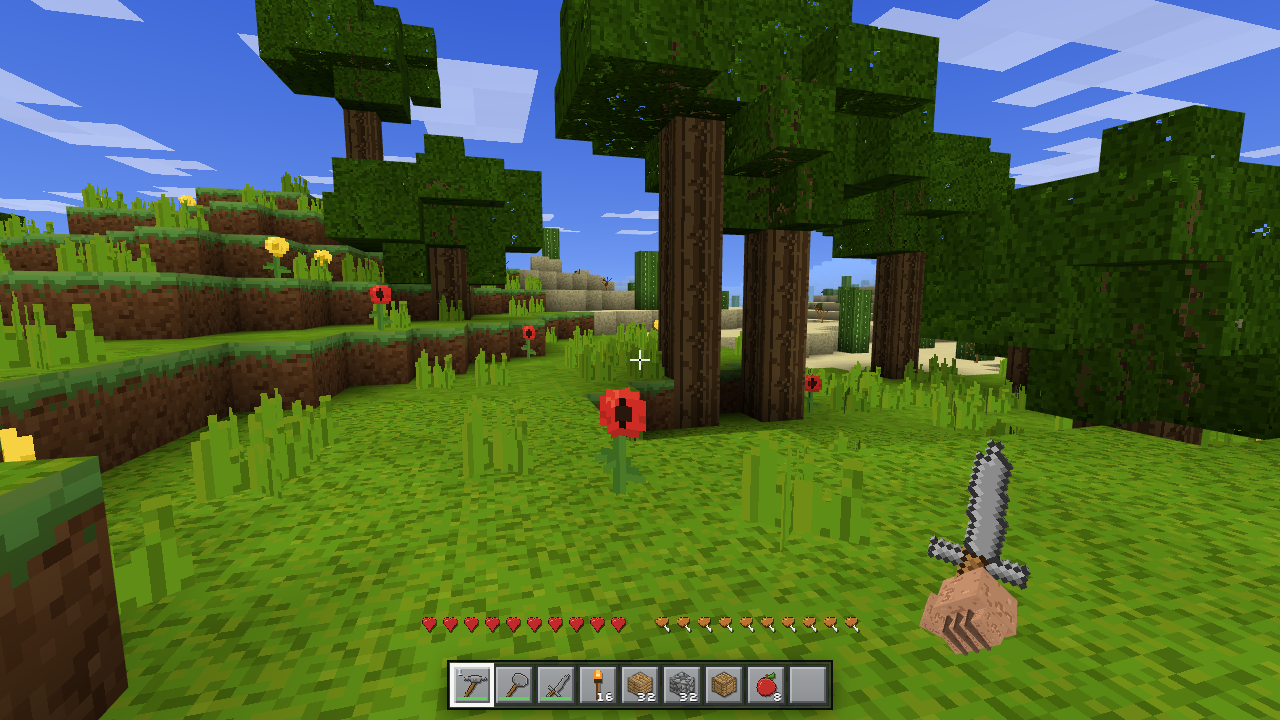
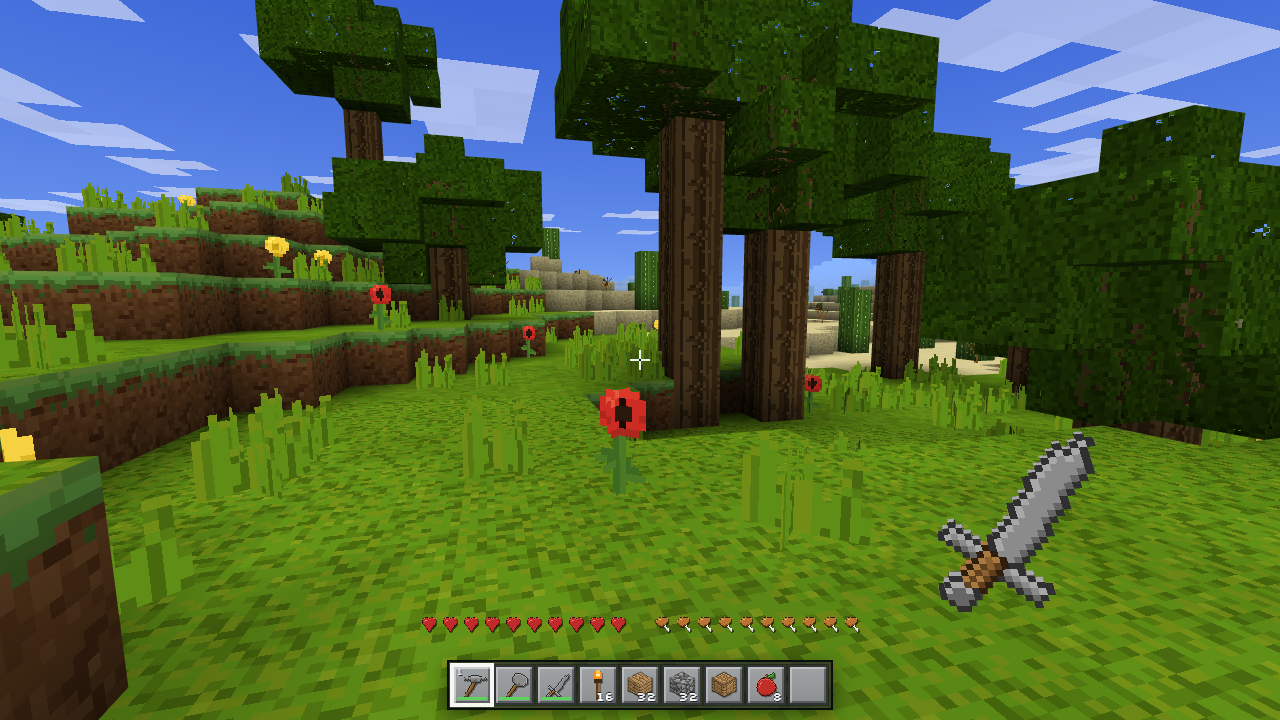
fix: quadruped leg/head rigs; hide arm behind held items to match vanilla first-person view

Changed region(s): [[0.7188, 0.6111, 0.875, 0.9167]]

diff --git a/src/entities/models.ts b/src/entities/models.ts
@@ -316,16 +316,16 @@ const PIG_MODEL: MobModelDef = {
   eyeHeight: 0.75,
   walkCycle: 1.2,
   parts: [
-    headPart('head', 'pig_head', [0, 0.55, 0.45], [0, 0.15, 0.1], [0.5, 0.5, 0.5]),
+    headPart('head', 'pig_head', [0, 0.55, 0.52], [0, 0.06, 0.12], [0.5, 0.5, 0.5]),
     {
       name: 'body',
       texture: 'pig_body',
       pivot: [0, 0.25, 0],
       size: [0.625, 0.5, 0.9],
-      offset: [0, 0.25, 0],
+      offset: [0, 0.3, 0],
       swing: 'none',
     },
-    ...buildQuadrupedLegs('pig_leg', 0.2, 0.3, 0.3, 0.3),
+    ...buildQuadrupedLegs('pig_leg', 0.2, 0.3, 0.625, 0.9),
   ],
 };
 
@@ -340,21 +340,21 @@ const COW_MODEL: MobModelDef = {
   eyeHeight: 1.2,
   walkCycle: 0.9,
   parts: [
-    headPart('head', 'cow_head', [0, 1.05, 0.55], [0, 0.15, 0.1], [0.5, 0.5, 0.5]),
+    headPart('head', 'cow_head', [0, 0.95, 0.65], [0, 0.02, 0.16], [0.5, 0.5, 0.38]),
     {
       name: 'horn_left',
       texture: 'cow_horn',
-      pivot: [0, 1.3, 0.6],
-      size: [0.12, 0.12, 0.12],
-      offset: [0.27, 0.1, 0],
+      pivot: [0.27, 1.18, 0.78],
+      size: [0.14, 0.14, 0.14],
+      offset: [0, 0, 0],
       swing: 'none',
     },
     {
       name: 'horn_right',
       texture: 'cow_horn',
-      pivot: [0, 1.3, 0.6],
-      size: [0.12, 0.12, 0.12],
-      offset: [-0.27, 0.1, 0],
+      pivot: [-0.27, 1.18, 0.78],
+      size: [0.14, 0.14, 0.14],
+      offset: [0, 0, 0],
       swing: 'none',
     },
     {
@@ -362,10 +362,10 @@ const COW_MODEL: MobModelDef = {
       texture: 'cow_body',
       pivot: [0, 0.45, 0],
       size: [0.7, 0.7, 1.15],
-      offset: [0, 0.35, 0],
+      offset: [0, 0.45, 0],
       swing: 'none',
     },
-    ...buildQuadrupedLegs('cow_leg', 0.25, 0.45, 0.4, 0.45),
+    ...buildQuadrupedLegs('cow_leg', 0.25, 0.55, 0.7, 1.15),
   ],
 };
 
@@ -380,7 +380,7 @@ const SHEEP_MODEL: MobModelDef = {
   eyeHeight: 1.05,
   walkCycle: 1.1,
   parts: [
-    headPart('head', 'sheep_head', [0, 0.95, 0.5], [0, 0.15, 0.1], [0.45, 0.45, 0.45]),
+    headPart('head', 'sheep_head', [0, 0.83, 0.62], [0, 0.04, 0.13], [0.45, 0.45, 0.45]),
     {
       name: 'body',
       texture: 'sheep_wool',
@@ -389,7 +389,7 @@ const SHEEP_MODEL: MobModelDef = {
       offset: [0, 0.35, 0],
       swing: 'none',
     },
-    ...buildQuadrupedLegs('sheep_leg', 0.25, 0.4, 0.35, 0.4),
+    ...buildQuadrupedLegs('sheep_leg', 0.25, 0.4, 0.75, 1),
   ],
 };
 
@@ -473,19 +473,27 @@ function buildQuadrupedLegs(
   texture: string,
   legWidth: number,
   legHeight: number,
-  zFront: number,
-  zBack: number,
+  bodyWidth: number,
+  bodyDepth: number,
 ): ModelPart[] {
+  // Vanilla quadrupeds stand on four corner legs. Previously the legs were all
+  // placed at ±legWidth/2, which bunched them under the torso and made cows /
+  // sheep look like they had two stubby legs.
+  const x = Math.max(legWidth / 2, bodyWidth / 2 - legWidth / 2 - 0.02);
+  // Front legs sit slightly more forward than the back pair, matching the
+  // vanilla quadruped rig (cow: z +7px / -5px).
+  const zFront = bodyDepth * 0.38;
+  const zBack = -bodyDepth * 0.28;
   const bodies: Array<[string, number, number, number]> = [
-    ['leg_front_left', legWidth / 2, zFront, 0],
-    ['leg_front_right', -legWidth / 2, zFront, Math.PI],
-    ['leg_back_left', legWidth / 2, zBack, Math.PI],
-    ['leg_back_right', -legWidth / 2, zBack, 0],
+    ['leg_front_left', x, zFront, 0],
+    ['leg_front_right', -x, zFront, Math.PI],
+    ['leg_back_left', x, zBack, Math.PI],
+    ['leg_back_right', -x, zBack, 0],
   ];
-  return bodies.map(([name, x, z, phase]) => ({
+  return bodies.map(([name, px, pz, phase]) => ({
     name,
     texture,
-    pivot: [x, legHeight, z] as const,
+    pivot: [px, legHeight, pz] as const,
     size: [legWidth, legHeight, legWidth] as const,
     offset: [0, -legHeight / 2, 0] as const,
     swing: 'leg' as const,

diff --git a/src/render/firstPerson.ts b/src/render/firstPerson.ts
@@ -28,7 +28,7 @@ import type { Slot } from '../core/types';
 import { blockNumeric, faceTexture, getBlockDef, type BlockDef } from '../world/blocks';
 import { getItem, type ItemDef } from '../world/items';
 import type { TextureAtlas } from './atlas';
-import { createArmModel, createHeldFist, type ArmModel } from './armModel';
+import { createArmModel, type ArmModel } from './armModel';
 import { HeldItemGeometryCache, heldCategory, type HeldCategory } from './heldItem';
 
 export type HandSwingKind = 'attack' | 'place';
@@ -113,8 +113,8 @@ export const HELD_POSES: Readonly<Record<HeldCategory, HandPose>> = {
 /** Initial tilt of the 3D item itself, so the extruded side is always visible. */
 const HELD_ITEM_ROTATIONS: Readonly<Record<HeldCategory, Vec3Tuple>> = {
   block: [-0.12, -0.62, 0.06],
-  tool: [-0.04, -0.34, 0.12],
-  weapon: [-0.04, -0.28, 0.38],
+  tool: [-0.05, -0.3, -0.42],
+  weapon: [-0.05, -0.28, 0.02],
   food: [-0.06, -0.34, 0.12],
   material: [-0.04, -0.38, 0.12],
   other: [-0.04, -0.38, 0.12],
@@ -353,7 +353,6 @@ export class FirstPersonHand {
   private readonly itemCache = new HeldItemGeometryCache();
   private itemRoot: THREE.Group | null = null;
   private itemMesh: THREE.Mesh | null = null;
-  private itemFist: THREE.Group | null = null;
   private itemGeometryOwned = false;
 
   private currentItemId: string | null = null;
@@ -403,14 +402,6 @@ export class FirstPersonHand {
   private clearItem(): void {
     if (!this.itemRoot) return;
     this.handRoot.remove(this.itemRoot);
-    if (this.itemFist) {
-      const geometries = new Set<THREE.BufferGeometry>();
-      this.itemFist.traverse((object) => {
-        if (object instanceof THREE.Mesh) geometries.add(object.geometry);
-      });
-      for (const geometry of geometries) geometry.dispose();
-      this.itemFist = null;
-    }
     if (this.itemGeometryOwned && this.itemMesh) this.itemMesh.geometry.dispose();
     this.itemRoot = null;
     this.itemMesh = null;
@@ -423,9 +414,13 @@ export class FirstPersonHand {
     this.currentCategory = null;
     const itemId = this.currentItemId;
     if (!itemId) {
+      this.armModel.setHolding(false);
       this.arm.visible = true;
       return;
     }
+    this.armModel.setHolding(true);
+    // Vanilla hides the arm behind the item model in first person: only the
+    // item is visible at the bottom-right. (Empty hand still shows the arm.)
     this.arm.visible = false;
     const item = getItem(itemId) ?? null;
     const category = heldCategory(itemId);
@@ -469,20 +464,14 @@ export class FirstPersonHand {
     const root = new THREE.Group();
     root.rotation.set(...HELD_ITEM_ROTATIONS[category]);
     const itemMesh = new THREE.Mesh(geometry, material);
-    itemMesh.scale.setScalar(scale);
-    itemMesh.position.set(-grip[0] * scale, -grip[1] * scale, -grip[2] * scale);
+    const drawScale = kind === 'sprite' ? scale * 1.2 : scale;
+    itemMesh.scale.setScalar(drawScale);
+    itemMesh.position.set(-grip[0] * drawScale, -grip[1] * drawScale, -grip[2] * drawScale);
     root.add(itemMesh);
-
-    // A visible fist around the grip point sells the 3D hold.
-    const fist = createHeldFist(this.armModel.materials.arm, category === 'block' ? 0.78 : 0.62);
-    fist.position.set(0, -0.015, 0.03);
-    fist.rotation.set(0.22, -0.3, 0.16);
-    root.add(fist);
 
     this.handRoot.add(root);
     this.itemRoot = root;
     this.itemMesh = itemMesh;
-    this.itemFist = fist;
     this.currentItemKind = kind;
     this.currentCategory = category;
   }

diff --git a/src/render/armModel.ts b/src/render/armModel.ts
@@ -31,6 +31,9 @@ export interface ArmMaterials {
 export interface ArmModel {
   readonly group: THREE.Group;
   readonly materials: ArmMaterials;
+  /** Hand grip point in handRoot space (arm scale applied). */
+  readonly handAnchor: THREE.Vector3;
+  setHolding(holding: boolean): void;
   dispose(): void;
 }
 
@@ -215,7 +218,6 @@ export function createArmModel(): ArmModel {
   const fist = createKnuckleFist(arm.material);
   group.add(fist);
   group.scale.setScalar(0.68);
-
   const materials: ArmMaterials = {
     arm: arm.material,
     sleeve: sleeve.material,
@@ -225,6 +227,8 @@ export function createArmModel(): ArmModel {
     },
   };
   materials.setLight(1);
+
+  const handAnchor = new THREE.Vector3(0, 0, -0.16 * 0.68);
 
   const dispose = (): void => {
     const geometries = new Set<THREE.BufferGeometry>();
@@ -238,5 +242,13 @@ export function createArmModel(): ArmModel {
     sleeveTexture.dispose();
   };
 
-  return { group, materials, dispose };
+  return {
+    group,
+    materials,
+    handAnchor,
+    setHolding(holding: boolean): void {
+      fist.visible = !holding;
+    },
+    dispose,
+  };
 }

diff --git a/README.md b/README.md
@@ -16,6 +16,7 @@
 | ![高空景观](docs/screenshots/hero-aerial.png) | ![日落](docs/screenshots/sunset.png) |
 | ![空手手臂](docs/screenshots/hand.png) | ![手持镐](docs/screenshots/held-pickaxe.png) |
 | ![手持方块](docs/screenshots/held-block.png) | ![手持剑](docs/screenshots/held-sword.png) |
+| ![牛/羊/猪/鸡](docs/screenshots/mobs.png) | ![手持苹果](docs/screenshots/held-apple.png) |
 | ![夜晚生物](docs/screenshots/night-mobs.png) | ![洞穴与火把](docs/screenshots/cave.png) |
 | ![第三人称](docs/screenshots/third-person.png) | ![水下](docs/screenshots/underwater.png) |
 | ![背包与合成](docs/screenshots/inventory.png) | ![创造物品栏](docs/screenshots/creative.png) |
